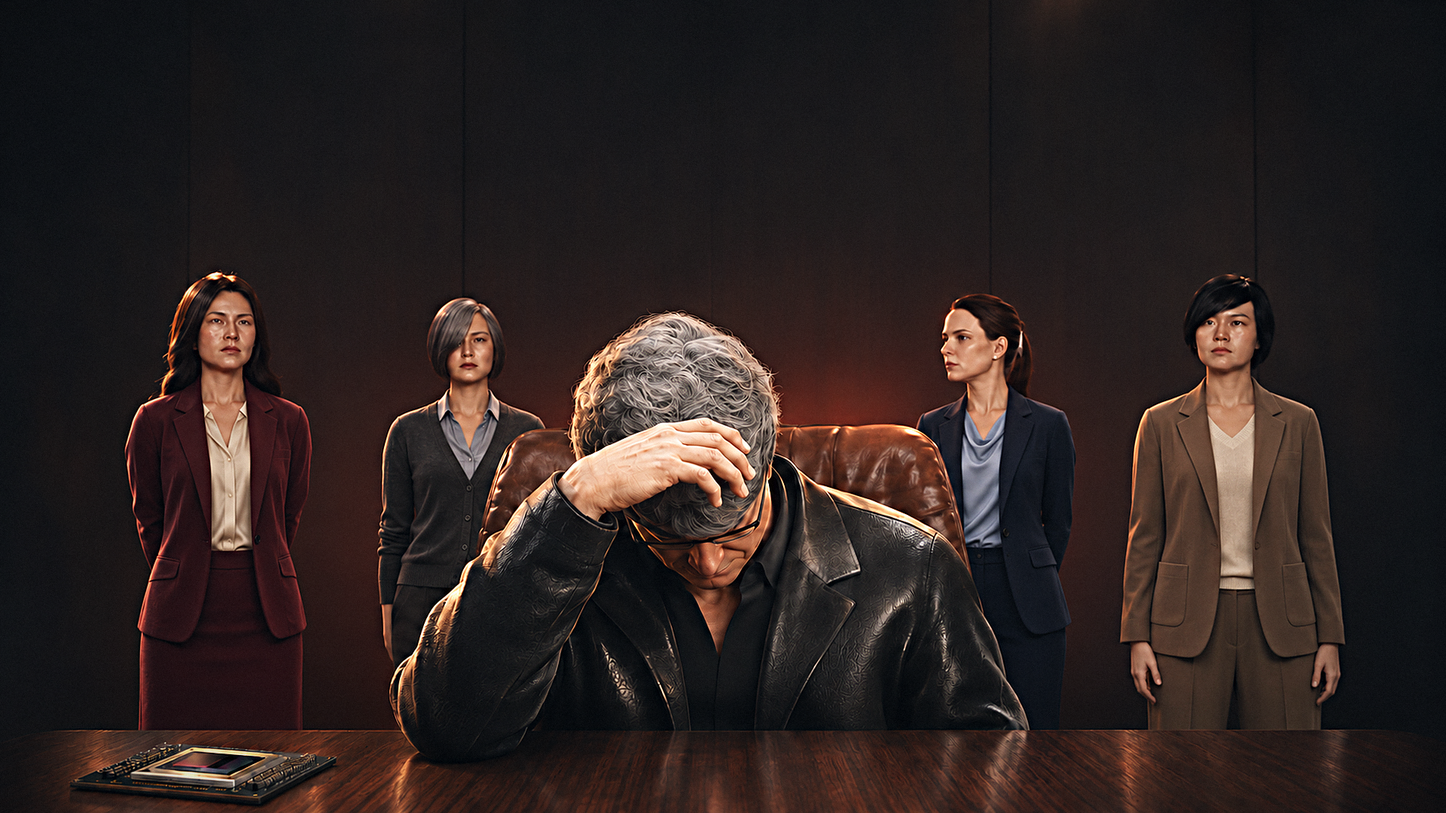
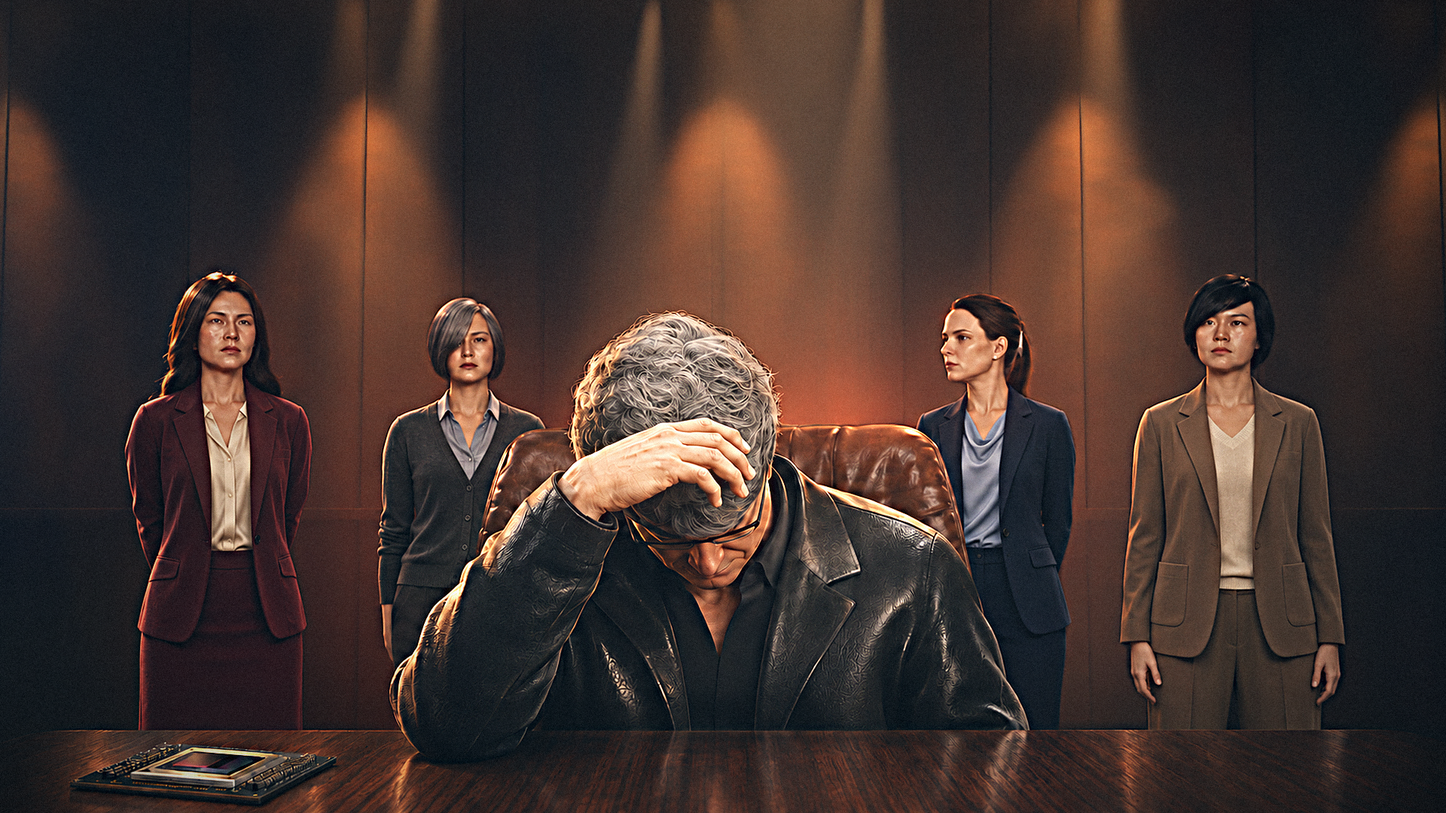
Thumbnails: Nvidia v4 - ChatGPT picture relit with our office light layer (scallops, beams), B grade and text
Claude-Session: https://claude.ai/code/session_01XfwPSn2rDX1TedbFgHWJ1r

diff --git a/thumbnails/nvidia/concepts.py b/thumbnails/nvidia/concepts.py
@@ -124,3 +124,18 @@ def warm_setup(c):
 CONCEPTS["targeted_hq"] = dict(CONCEPTS["targeted_clear"], exposure=0.1, setup=warm_setup)
 CONCEPTS["targeted_hq_side"] = dict(CONCEPTS["targeted_hq"], cam=lambda c: (c["head"] + Vector((2.2, -0.6, 0.0)), c["head"] + Vector((0, 0, -0.25)), 40), fstop=None, mask=None)
 CONCEPTS["targeted_hq_head"] = dict(CONCEPTS["targeted_hq"], cam=lambda c: (c["head"] + Vector((0.3, -0.8, 0.2)), c["head"], 55), fstop=None, mask=None)
+
+
+def bg_setup(c):
+    """The office wall and its lights only (people, chair, table hidden): a light layer for the ChatGPT picture."""
+    mood_setup(c)
+    keep = ("BackWall", "PanelGroove", "Wainscot", "SideWall", "Haze", "Ceiling", "Floor", "Downlight")
+    for o in bpy.data.objects:
+        if o.type in ('MESH', 'EMPTY') and not o.name.startswith(keep):
+            o.hide_render = True
+            for ch in o.children_recursive:
+                ch.hide_render = True
+
+
+CONCEPTS["mood_bg"] = dict(CONCEPTS["targeted_mood"], setup=bg_setup, mask=None, fstop=3.0,
+                           cam=lambda c: (Vector((0.0, -0.4, 1.35)), Vector((0.0, 5.4, 1.75)), 30))
